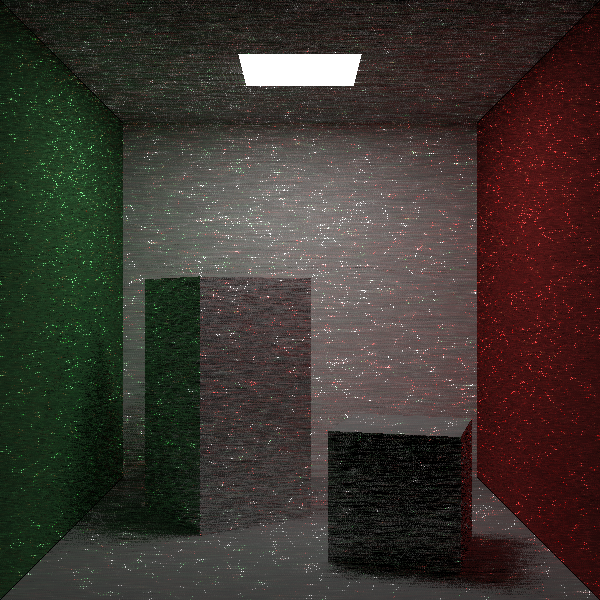
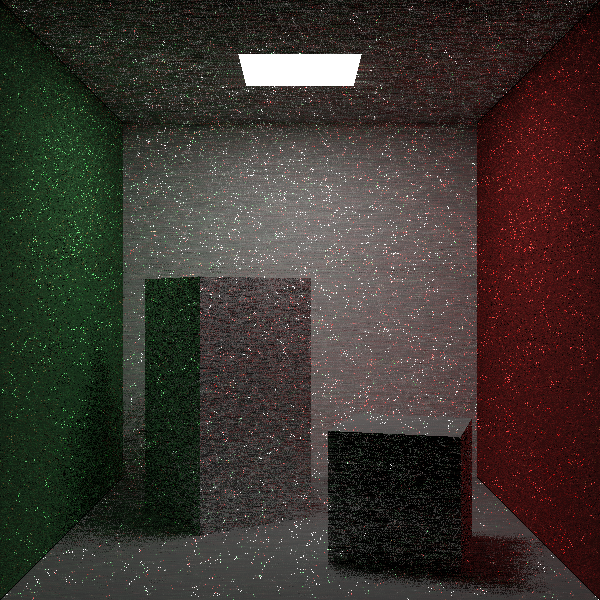
涂抹感太严重

diff --git a/src/world/world_impl.rs b/src/world/world_impl.rs
@@ -38,8 +38,11 @@ impl World {
         let (raw_pixel, gbuffer) = self.shade_pixel();
         let proc_pixel_0 = self.outlier_removal(raw_pixel, 1);
         let proc_pixel_1 = self.row_filter(proc_pixel_0, gbuffer.clone());
+        // let proc_pixel_1 = self.col_filter(proc_pixel_0, gbuffer.clone());
         let proc_pixel_2 = self.outlier_removal(proc_pixel_1, 3);
-        self.col_filter(proc_pixel_2, gbuffer);
+        let proc_pixel_3 = self.col_filter(proc_pixel_2, gbuffer);
+        // let prec_pixel_3 = self.row_filter(proc_pixel_2, gbuffer);
+        self.outlier_removal(proc_pixel_3, 5);
     }
 
     fn shade_pixel(&mut self) -> (PixelContainer, GeometryBuffer) {
@@ -120,9 +123,14 @@ impl World {
         return res_vec;
     }
 
-    fn col_filter(&mut self, processed_img: PixelContainer, gbuffer: GeometryBuffer) {
+    fn col_filter(
+        &mut self,
+        processed_img: PixelContainer,
+        gbuffer: GeometryBuffer,
+    ) -> PixelContainer {
         let res_vec = self.filter_image(&processed_img, &gbuffer, FilterType::Col);
         self.save_image(&res_vec, "col-filter".to_string(), 4);
+        return res_vec;
     }
 
     fn filter_image(
@@ -219,8 +227,8 @@ impl World {
         let red = DiffuseMat::new(Color::new([0.65, 0.05, 0.05]));
         let white = DiffuseMat::new(Color::new([0.75, 0.75, 0.75]));
         let green = DiffuseMat::new(Color::new([0.12, 0.45, 0.15]));
-        let cupper = Metal::new(Color::new([0.7, 0.45, 0.2]), 0.5);
-        let glass = Glass::new(Color::new([0.9, 0.9, 0.9]), 1.5);
+        // let cupper = Metal::new(Color::new([0.7, 0.45, 0.2]), 0.5);
+        // let glass = Glass::new(Color::new([0.9, 0.9, 0.9]), 1.5);
         let light = DiffuseLight::new(Color::new([7.0, 7.0, 7.0]));
         // light
         let panel_light = Arc::new(Panel::new(

diff --git a/src/systems/image_process.rs b/src/systems/image_process.rs
@@ -7,15 +7,15 @@ pub fn pixel_filter(gb0: &GBInfo, gb1: &GBInfo, c0: Color, c1: Color, sigma: f64
     if gb0.hit_obj_id != gb1.hit_obj_id {
         return 0.0;
     } else {
-        return normal_filter(1.0, gb0.normal, gb1.normal)
+        return normal_filter(2.0, gb0.normal, gb1.normal)
             * (depth_filter(
-                0.2,
+                0.5,
                 gb0.distance,
                 gb1.distance,
                 gb0.hit_point,
                 gb1.hit_point,
                 gb0.normal,
-            ) + luminance_filter(1.0, c0, c1, sigma))
+            ) + luminance_filter(2.0, c0, c1, sigma))
             .exp();
     }
 }
@@ -26,6 +26,8 @@ fn depth_filter(weight: f64, d0: f64, d1: f64, p0: Point, p1: Point, n0: Vector3
     // println!("depth filter: {}", res);
     return res;
 }
+
+// fn distance_filter(weight: f64, p0: Point, p1: Point)
 
 #[inline]
 fn normal_filter(weight: f64, n0: Vector3, n1: Vector3) -> f64 {

diff --git a/src/some_math/vector_impl.rs b/src/some_math/vector_impl.rs
@@ -1,4 +1,8 @@
-use std::{fmt::Display, iter::Sum, ops::{Add, AddAssign, Div, DivAssign, Mul, Sub}, usize};
+use std::{
+    fmt::Display,
+    ops::{Add, AddAssign, Div, DivAssign, Mul, Sub},
+    usize,
+};
 
 use super::{clamp, Color, Vector3};
 
